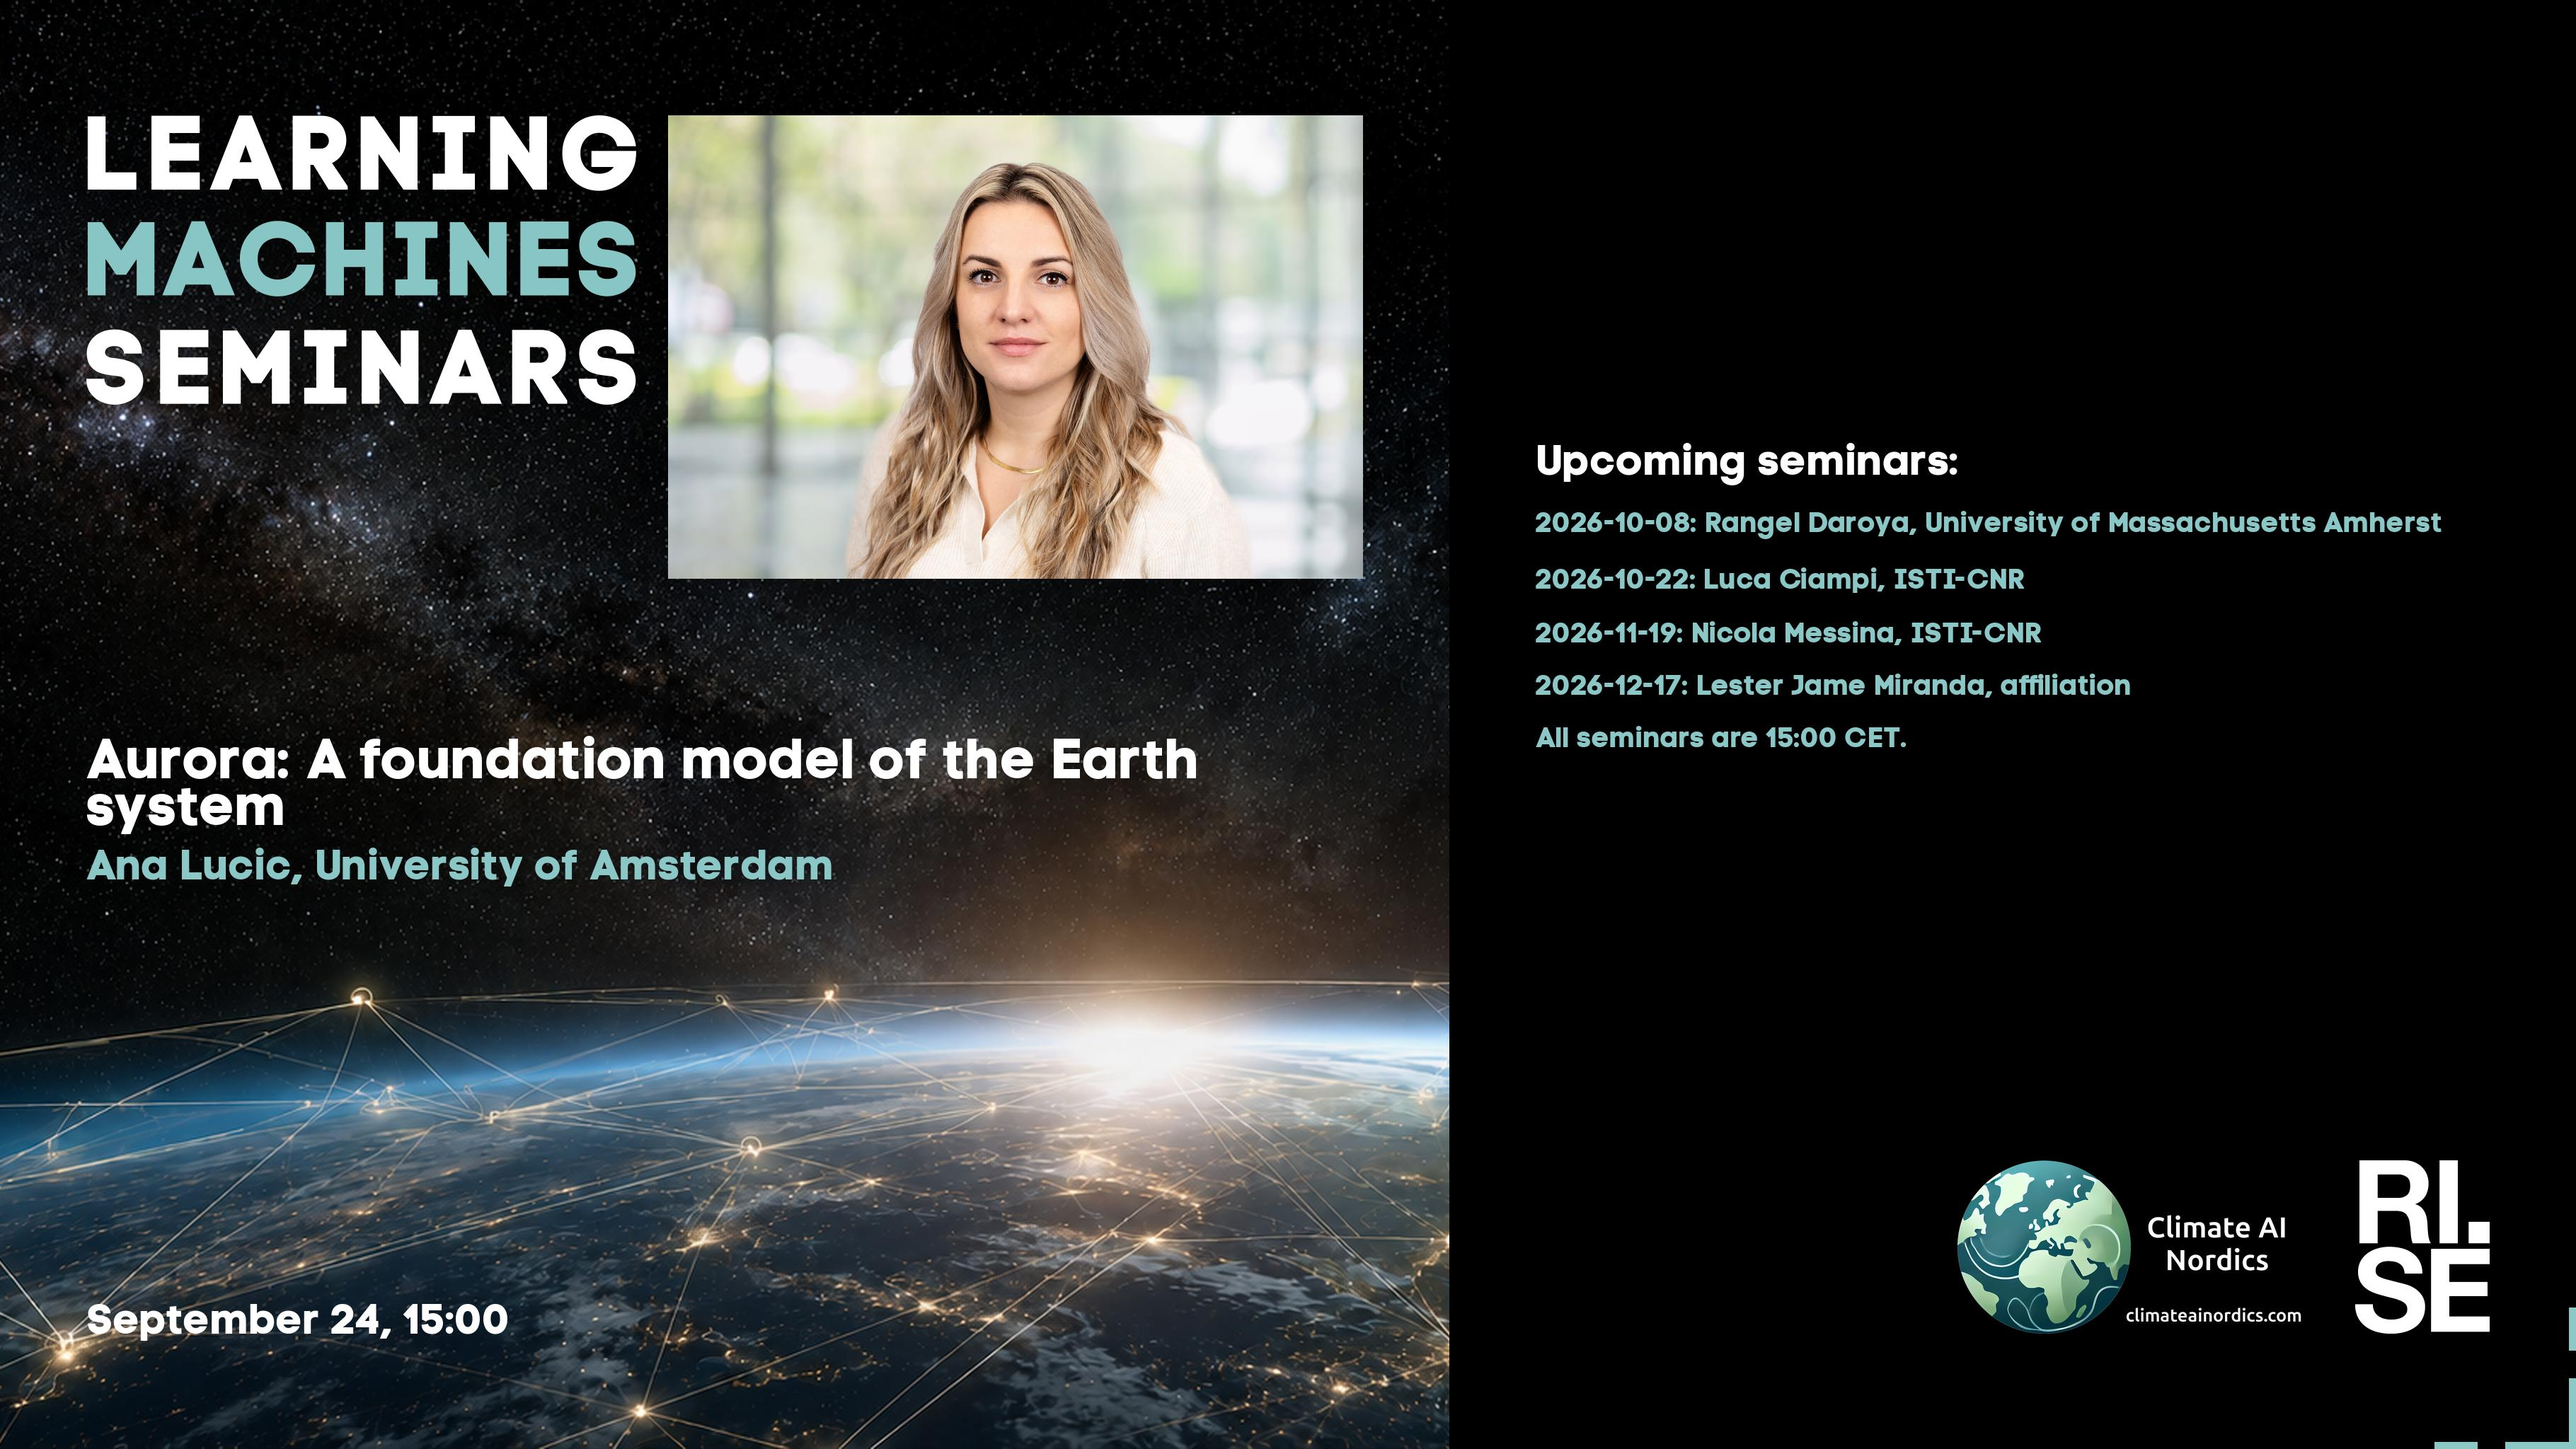
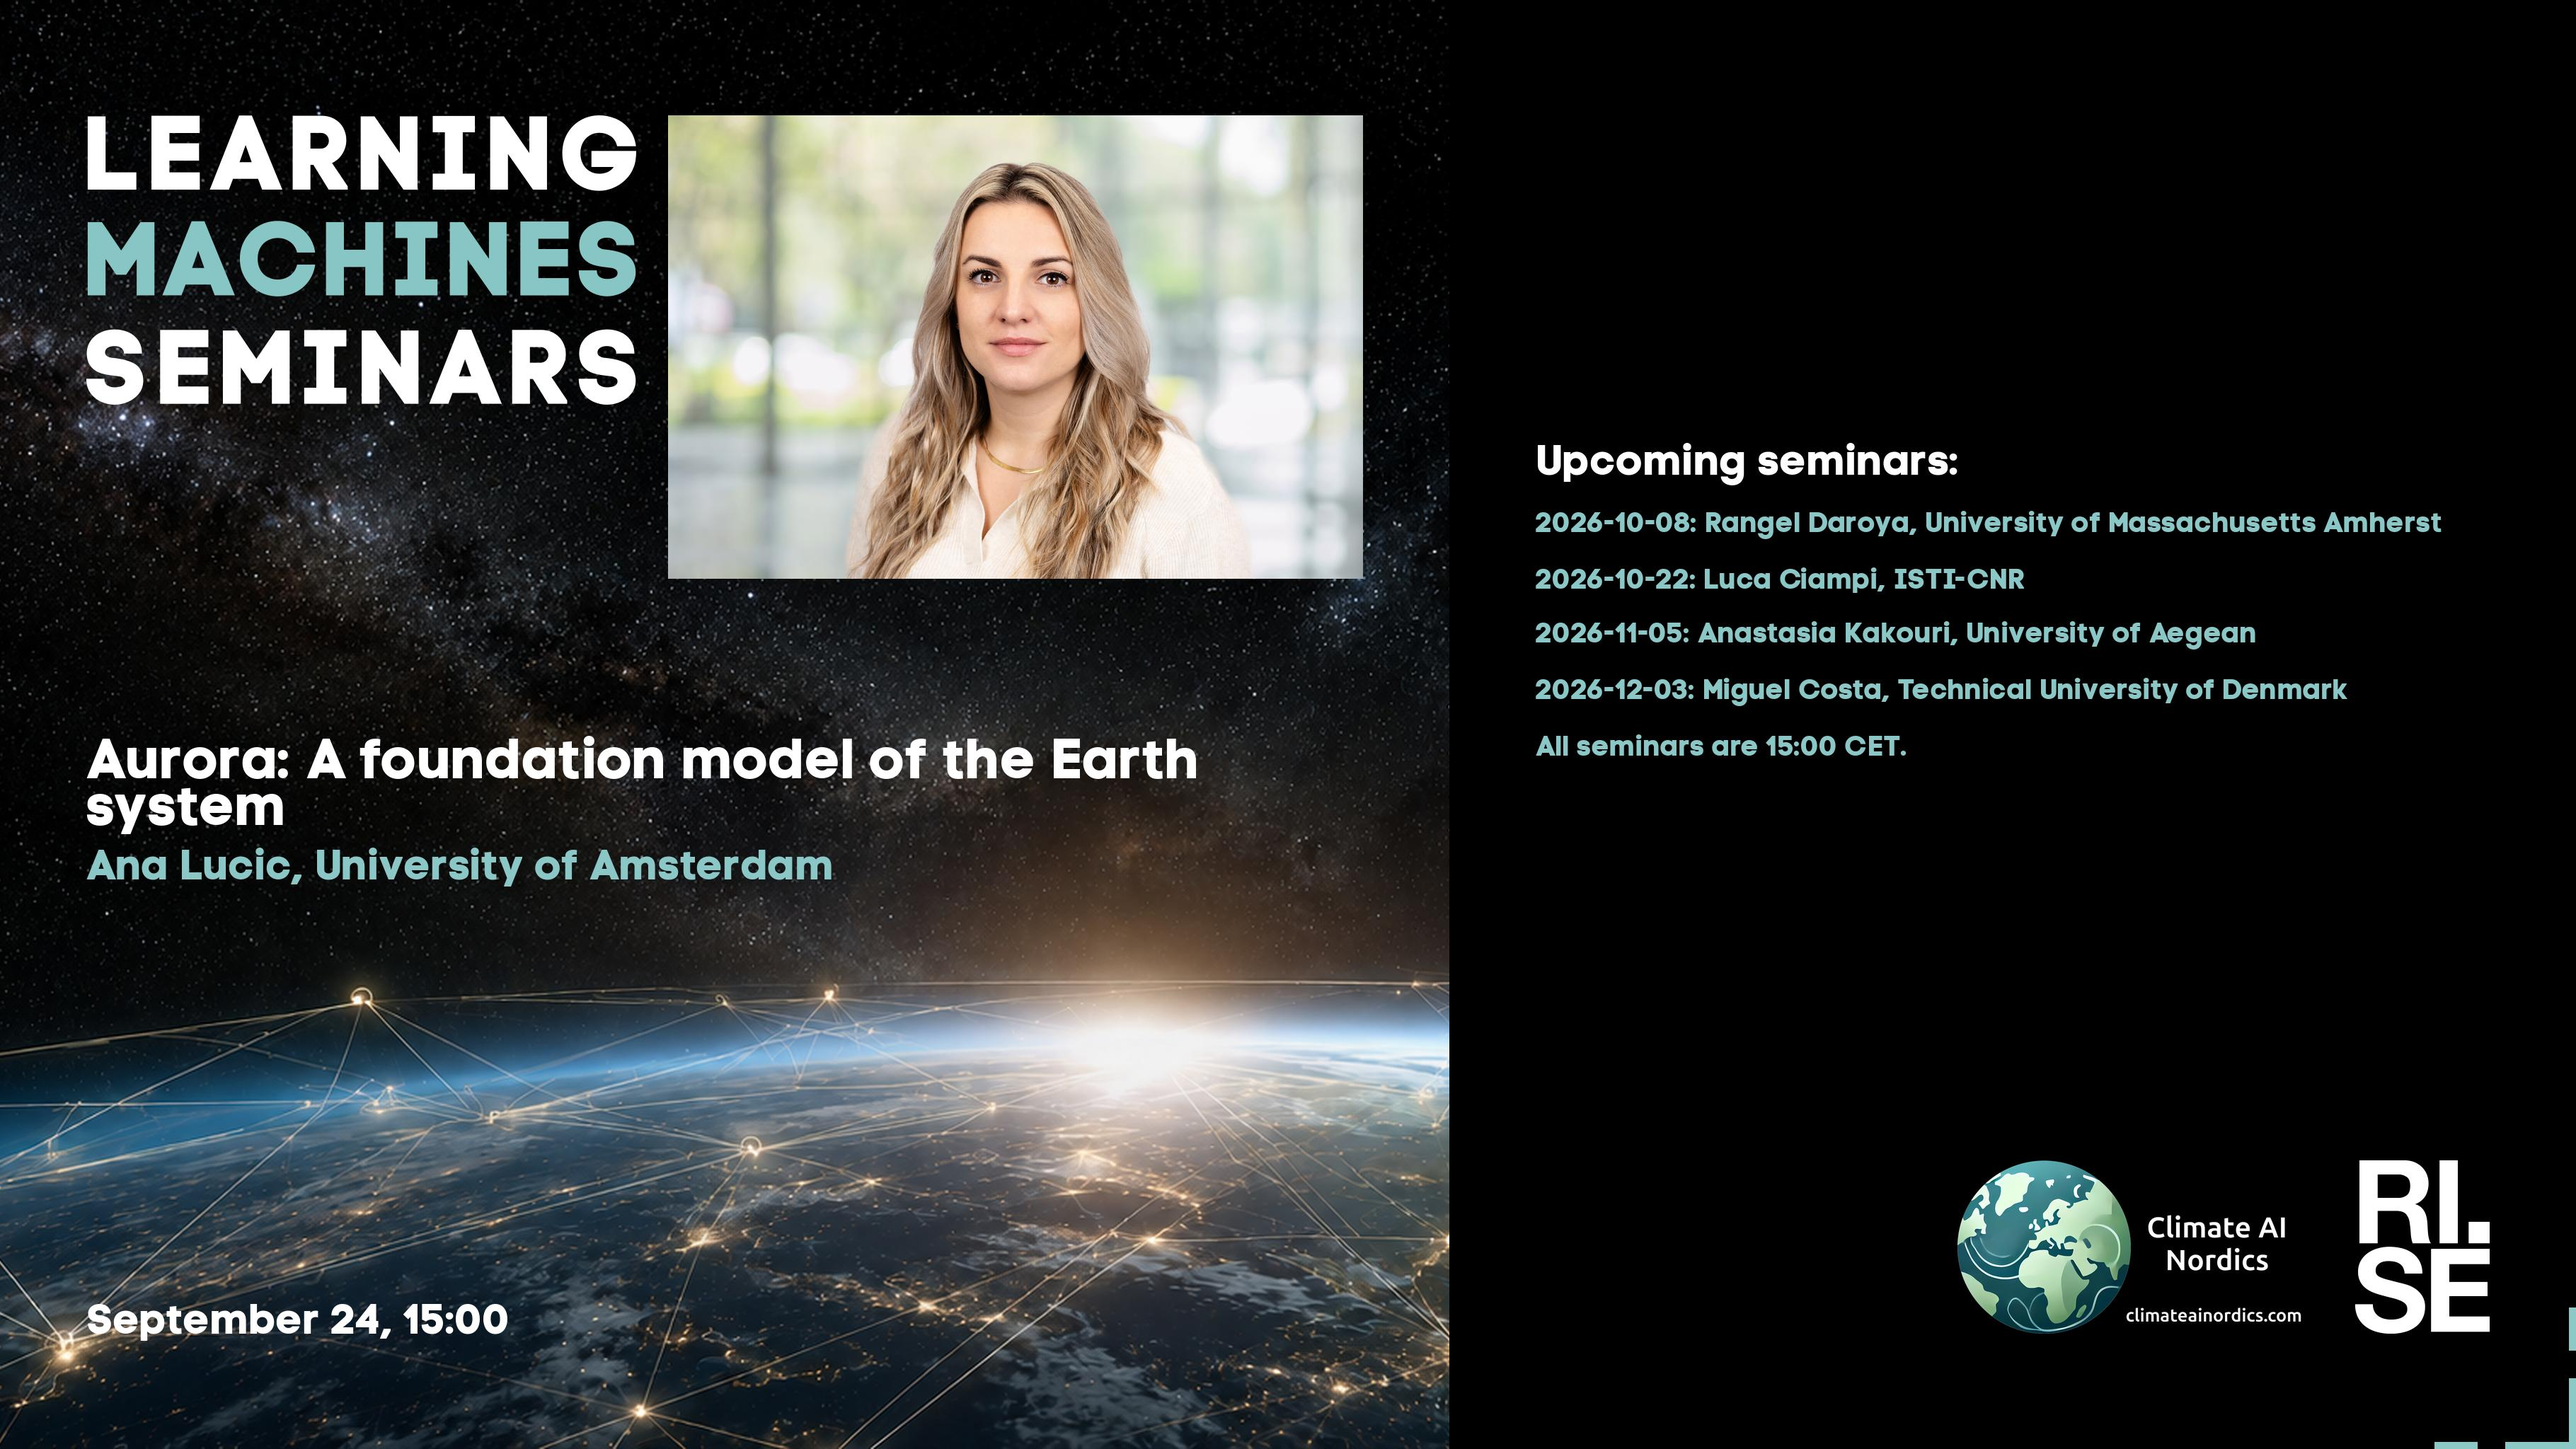
Updated plan on web site.

Changed region(s): [[0.5898, 0.4062, 0.9003, 0.5312]]

diff --git a/lm/2026-09-24.md b/lm/2026-09-24.md
@@ -26,8 +26,8 @@ This seminar is a collaboration between RISE and Climate AI Nordics -- [climatea
 
 * 2026-10-08: Rangel Daroya, University of Massachusetts Amherst
 * 2026-10-22: Luca Ciampi, ISTI-CNR
-* 2026-11-19: Nicola Messina, ISTI-CNR
-* 2026-12-17: Lester Jame Miranda, affiliation
+* 2026-11-05: Anastasia Kakouri, University of Aegean
+* 2026-12-03: Miguel Costa, Technical University of Denmark
 * All seminars are 15:00 CET.
 
 More information and coming seminars: [https://ri.se/lm-sem](https://ri.se/lm-sem)

diff --git a/lm/2026-09-17.md b/lm/2026-09-17.md
@@ -43,7 +43,7 @@ This seminar will have an in-person presence at RISE Lund Office (Scheelevägen 
 * 2026-09-24: Ana Lucic, University of Amsterdam
 * 2026-10-08: Rangel Daroya, University of Massachusetts Amherst
 * 2026-10-22: Luca Ciampi, ISTI-CNR
-* 2026-11-19: Nicola Messina, ISTI-CNR
+* 2026-11-05: Anastasia Kakouri, University of Aegean
 * All seminars are 15:00 CET.
 
 More information and coming seminars: [https://ri.se/lm-sem](https://ri.se/lm-sem)
